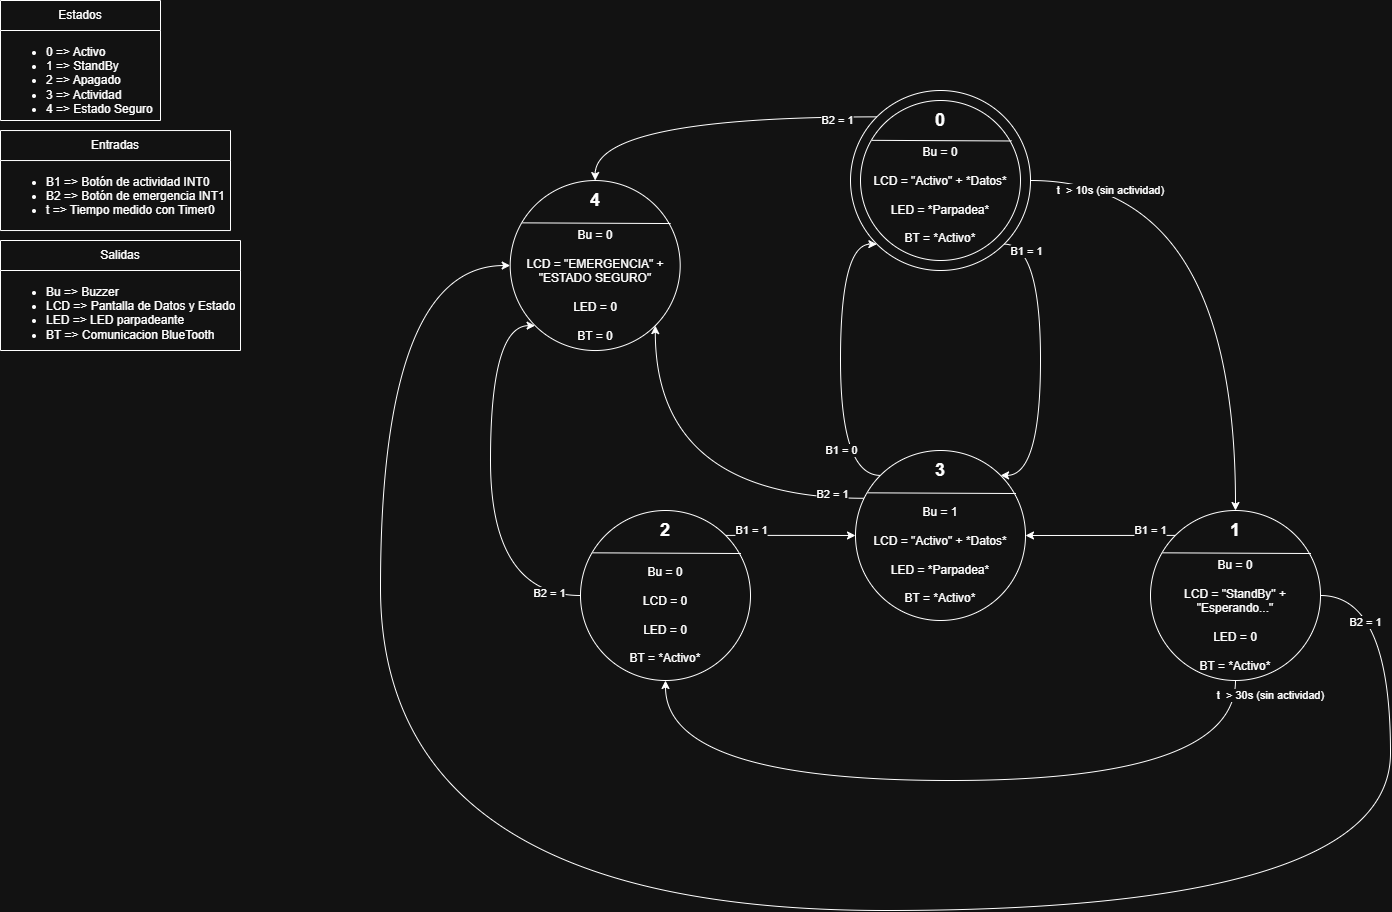
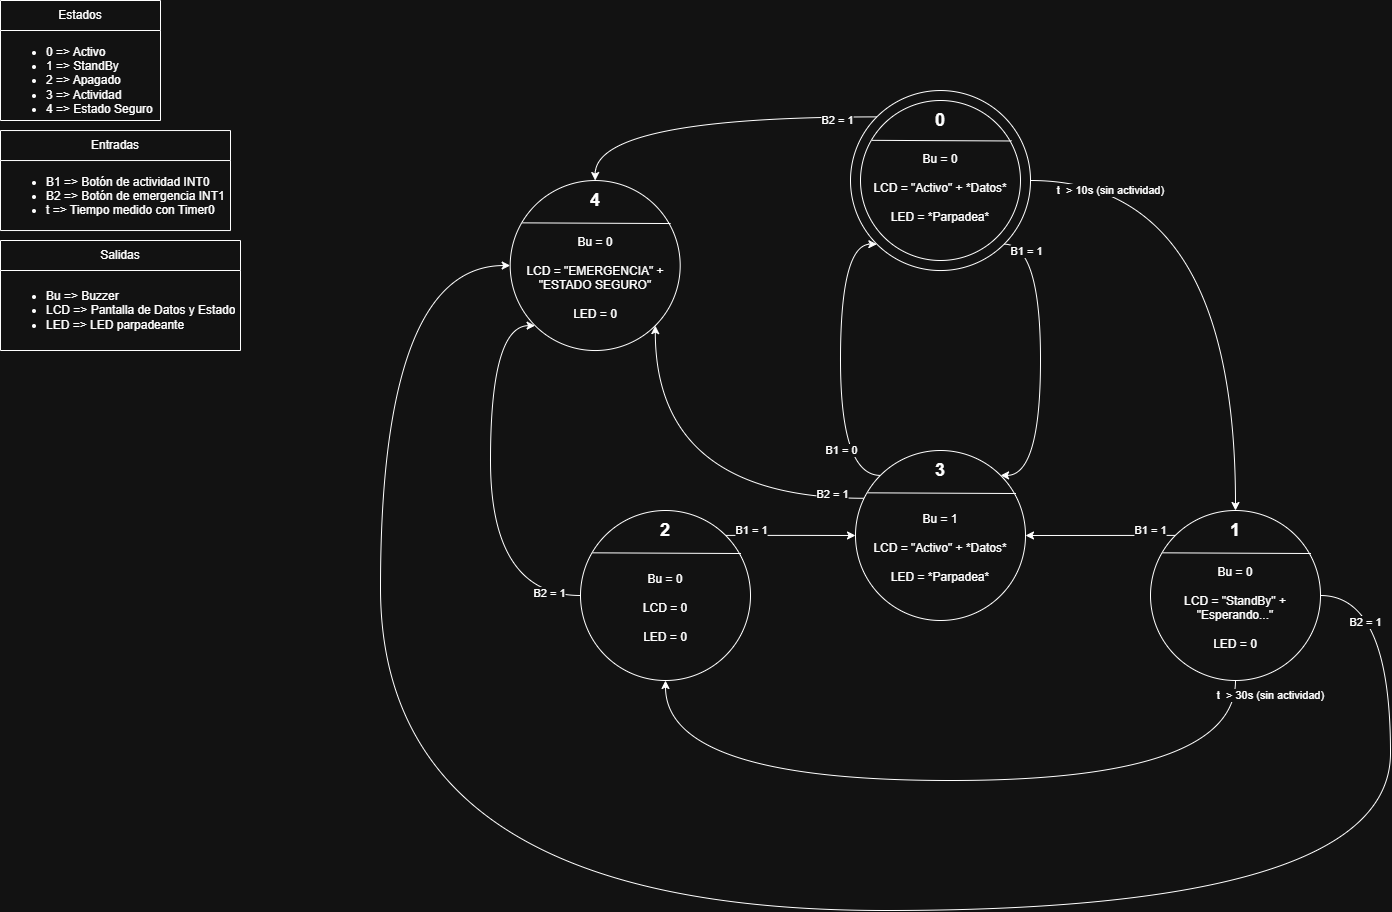
Problema A TERMINADO (creo y espero)
se suman tablas de recursos utilizados y transisciones, ademas de mejorar FSM  y sumar simulacion en picsimlab

diff --git a/Codigos/Ejercicio A/main.c b/Codigos/Ejercicio A/main.c
@@ -1,5 +1,6 @@
 #define F_CPU 16000000UL
 
+// Librerias del sistema
 #include <avr/io.h>
 #include <avr/interrupt.h>
 #include <avr/pgmspace.h>
@@ -7,10 +8,12 @@
 #include <util/atomic.h>
 #include <stdio.h>
 
+// Librerias propias
 #include "lcd_con_i2c.h"
 #include "adc_variable.h"
 #include "dh11_temp.h" // DH11 = PD5
 
+// =================== LUT ==================
 const char texto_activo[] PROGMEM = "Estado: Activo";
 const char texto_standby[] PROGMEM = "Estado: Standby";
 const char texto_esperando[] PROGMEM = "Esperando...";
@@ -28,6 +31,7 @@ const char* const tabla_estados[] PROGMEM = {
 // ========== INDICE DE ESTADOS ==================
 #define EST_ACTIVO      0
 #define EST_STANDBY     1
+#define EST_APAGADO     2
 #define EST_EMERGENCIA  3
 
 #define Pot 0      // ADC0 = PC0
@@ -39,6 +43,8 @@ const char* const tabla_estados[] PROGMEM = {
 
 // Puntero de estado actual
 static void (*estado)(void);
+
+static void cambiar_estado(void (*nuevo)(void));
 
 // ========== Estados ==============
 static void activo(void);
@@ -53,13 +59,15 @@ void configurar_interrupciones(void);
 uint16_t valor_adc = 0;
 int8_t valor_dh11 = 0;
 uint8_t i = 0;
-volatile uint8_t estadoin = EST_ACTIVO;
+static uint8_t entrando = 1;
 
 uint32_t obtener_tiempo(void);
 void actualizar_lcd(uint8_t indice_estado);
 void configurar_interrupciones(void);
 
 // ===== VARIABLES GLOBALES =====
+
+volatile uint8_t estadoin = EST_ACTIVO;
 
 volatile uint32_t contador_ms = 0;
 
@@ -112,13 +120,16 @@ int main(void){
 		if (evento_emergencia)
 		{
 			evento_emergencia = 0;
-			estado = emergencia;
+			cambiar_estado(emergencia);
 		}
 		else if (evento_boton)
 		{
-			evento_boton = 0;		
-			lcd_power_on();
-			estado = actividad;
+			evento_boton = 0;
+			if (estado == apagado)
+			{
+				lcd_power_on();      // solo si venía apagada
+			}
+			cambiar_estado(actividad);
 		}
 
 		estado();
@@ -128,75 +139,94 @@ int main(void){
 
 static void activo(void)
 {
-	PORTD &= ~(1 << Bu);
-	estadoin = EST_ACTIVO;
-	
+	if (entrando)
+	{
+		entrando = 0;
+		estadoin = EST_ACTIVO;
+		PORTD &= ~(1 << Bu);
+		actualizar_lcd(EST_ACTIVO);       // muestra "Activo" al instante
+	}
+
 	if (obtener_tiempo() >= 10000)
 	{
-		estado = standby;
+		cambiar_estado(standby);
 	}
-	
 }
 
 static void standby(void)
 {
-	PORTD &= ~((1 << Bu) | (1 << LED));
-	estadoin = EST_STANDBY;	
-	
+	if (entrando)
+	{
+		entrando = 0;
+		estadoin = EST_STANDBY;
+		lcd_pendiente = 0;                // descarta un refresco "Activo" pendiente
+		PORTD &= ~((1 << Bu) | (1 << LED));
+		actualizar_lcd(EST_STANDBY);      // "Estado: Standby" + "Esperando..." UNA vez
+	}
+
 	// Faltaria Dormir --> Parte B
-	
+
 	if (obtener_tiempo() >= 30000)
 	{
-		estado = apagado;
+		cambiar_estado(apagado);
 	}
-	
 }
 
 static void apagado(void)
 {
-	PORTD &= ~((1 << Bu) | (1 << LED));
-	
-	lcd_power_off();
-	
+	if (entrando)
+	{
+		entrando = 0;
+		estadoin = EST_APAGADO;
+		lcd_pendiente = 0;
+		PORTD &= ~((1 << Bu) | (1 << LED));
+		lcd_power_off();                  // UNA vez, no en cada vuelta
+	}
+
 	// Faltaria Dormir --> Parte B
-	
 }
 
 static void actividad(void)
 {
-	
-	estadoin = EST_ACTIVO;
+	if (entrando)
+	{
+		entrando = 0;
+		estadoin = EST_ACTIVO;
+	}
 
 	if (!(PIND & (1 << B1)))
 	{
-		PORTD |= (1 << Bu);   // Buzzer encendido
+		PORTD |= (1 << Bu);               // Buzzer encendido
 	}
 	else
 	{
-		PORTD &= ~(1 << Bu);  // Buzzer apagado
-		estado = activo;
+		PORTD &= ~(1 << Bu);              // Buzzer apagado
 		ATOMIC_BLOCK(ATOMIC_RESTORESTATE)
 		{
 			contador_ms = 0;
 		}
+		cambiar_estado(activo);
 	}
-	
 }
 
 static void emergencia(void)
 {
 	cli();
-	
+	lcd_power_on();                       // por si venía de APAGADO con el display off
 	actualizar_lcd(EST_EMERGENCIA);
-
 	PORTD &= ~((1 << Bu) | (1 << LED));
-
 	estadoin = EST_EMERGENCIA;
 
 	while (1)
 	{
 		// Permanece bloqueado hasta reiniciar el microcontrolador.
 	}
+}
+
+static void cambiar_estado(void (*nuevo)(void))
+{
+	estado = nuevo;
+	entrando = 1;
 }
 
 void configurar_interrupciones(void) {
@@ -255,7 +285,7 @@ void actualizar_lcd(uint8_t indice_estado)
 	if(indice_estado == 0){
 		
 		// Generar información dinámica
-		snprintf_P(linea2, sizeof(linea2), PSTR("ADC:%u Temp:%dC"), (unsigned int)valor_adc, (int)valor_dh11);
+		snprintf_P(linea2, sizeof(linea2), PSTR("ADC:%u Tem:%dC"), (unsigned int)valor_adc, (int)valor_dh11);
 		
 	}else{
 		
@@ -288,18 +318,20 @@ uint32_t obtener_tiempo(void)
 	return tiempo;
 }
 
-// ============ TIMER1 100ms comprueba ADC y parpadea LED cada 200ms ====================
+// ============ TIMER1 100ms comprueba acciones mediante flags ====================
 
 ISR(TIMER1_COMPA_vect)
 {
 	if (estadoin == EST_ACTIVO)
 	{
 		adc_pendiente = 1;
-
 		ticks_100ms++;
 
 		if ((ticks_100ms % 2) == 0)
 		led_pendiente = 1;
+
+		if ((ticks_100ms % 5) == 0)
+		lcd_pendiente = 1;
 
 		if (ticks_100ms >= 20)
 		{
@@ -307,10 +339,7 @@ ISR(TIMER1_COMPA_vect)
 			temperatura_pendiente = 1;
 		}
 	}
-	if ((ticks_100ms % 5) == 0)
-	lcd_pendiente = 1;
 }
-
 //=================== VECTORES DE INTERRUPCIONES POR BOTONES ===================
 
 ISR(INT0_vect)

diff --git a/Codigos/Ejercicio A/lcd_con_i2c.c b/Codigos/Ejercicio A/lcd_con_i2c.c
@@ -1,3 +1,6 @@
+
+#define F_CPU 16000000UL
+
 #include "lcd_con_i2c.h"
 
 // ============= || LCD PARA I2C || =================
